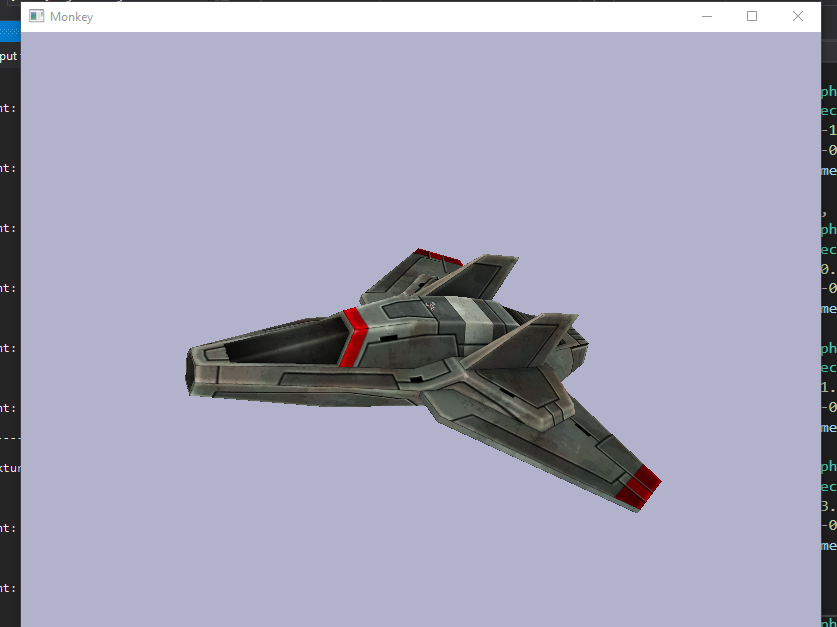
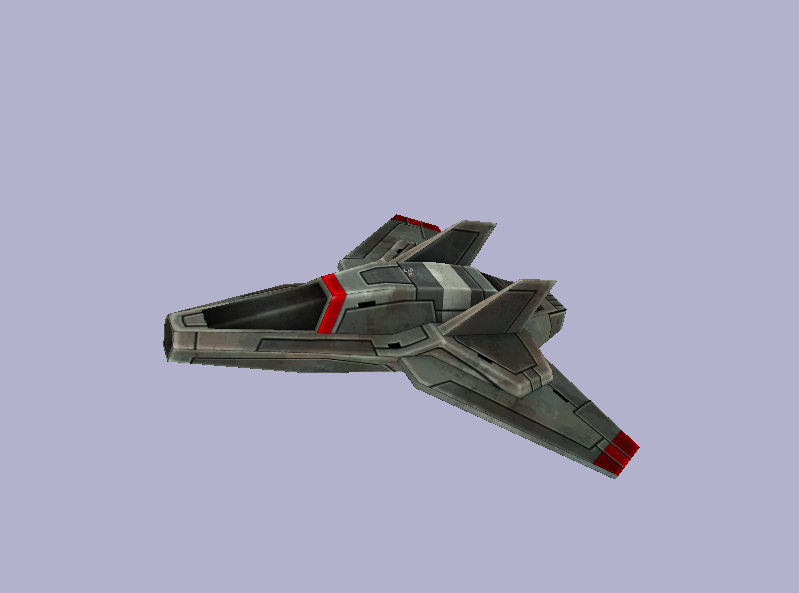
directx12 - updated text in some sections, frigate_crop - cropped

Changed region(s): [[0.0, 0.0, 1.0, 1.0], [0.1802, 0.3642, 0.811, 0.8196]]

diff --git a/directx12.html b/directx12.html
@@ -46,6 +46,8 @@
 							Before I talk about my implementation, I want to give a brief overview of DirectX 12’s rendering pipeline.
 							I won’t mention every stage, just the stages that are important for a general understanding of what I will be working with in my graphics engine.
 							I will also list each stage’s ability to read and write from GPU resources.
+						</p>
+						<p class="section-body">
 							Stages of the Rendering Pipeline:
 						</p>
 						<ul>
@@ -74,7 +76,7 @@
 
 						<h3 class="section-subtitle">3. Rasterizer</h3>
 						<p class="section-body">
-							The Intro to 3D Programming book simply states that it’s job is to “compute pixel colors from the projected 3D triangles.” [Luna, 193]
+							Frank Luna's "Intro to 3D Programming" book simply states that it’s job is to “compute pixel colors from the projected 3D triangles.”
 							This is true, but the practical benefits are much more interesting.
 							The rasterizer can interpolate vertex attributes between vertices, such as blending colors across a cube.
 							It is also where backface culling computed.
@@ -105,8 +107,8 @@
 							Another important part of the DirectX12 model is the Command Queue, Command Allocators, and Command Lists.
 							The Command Queue is important; it will be where all of the Command Lists are executed.
 							Command Allocators are the memory where Command Lists live.
-							It is recommended by Nvidia to use multiple Command Allocators and Command Lists when writing multi-threaded applications, and generating one allocator and list per frame buffer, multiplied by the number of threads, plus an extra set for bundles (not discussed in this paper).
-							[Nvidia Site] All Command Lists, no matter what thread they live on, must make their way into the Command Queue at some point.
+							It is recommended by Nvidia (<a href="https://developer.nvidia.com/dx12-dos-and-donts">Nvidia Developer Site</a>) to use multiple Command Allocators and Command Lists when writing multi-threaded applications, and generating one allocator and list per frame buffer, multiplied by the number of threads, plus an extra set for bundles.
+							All Command Lists, no matter what thread they live on, must make their way into the Command Queue at some point.
 						</p>
 
 						<h2 class="section-title">My Graphics Engine Implementation</h2>
@@ -206,19 +208,19 @@
 							<li>4. Unload Content</li>
 						</ul>
 
-						<h4 class="section-subtitle">Load Content</h4>
+						<h4 class="section-subtitle">1. Load Content</h4>
 						<p class="section-body">
 							This is where as-needed DirectX 12 resources are created and initialized.
 							It is also where user defined content such as managers are created and initialized.
 						</p>
 
-						<h4 class="section-subtitle">Update</h4>
+						<h4 class="section-subtitle">2. Update</h4>
 						<p class="section-body">
 							Update is where various parts of the system are updated before they are sent to the GPU for rendering.
 							This is where objects like models and cameras are transformed and inputs are handled.
 						</p>
 
-						<h4 class="section-subtitle">Draw</h4>
+						<h4 class="section-subtitle">3. Draw</h4>
 						<p class="section-body">
 							This is where DirectX 12 comes back into heavy involvement.
 							The Draw call is wrapped in a set of checks for synchronization.
@@ -232,7 +234,7 @@
 							I then tell the Swap Chain to Present, and head back over to Update to get ready for the next Draw call.
 						</p>
 
-						<h4 class="section-subtitle">Unload Content</h4>
+						<h4 class="section-subtitle">4. Unload Content</h4>
 						<p class="section-body">
 							This is where user content and some DirectX 12 systems gets torn down.
 							The parts of DirectX 12 that were handled by Engine and DX_Framework will be handled after this call.
